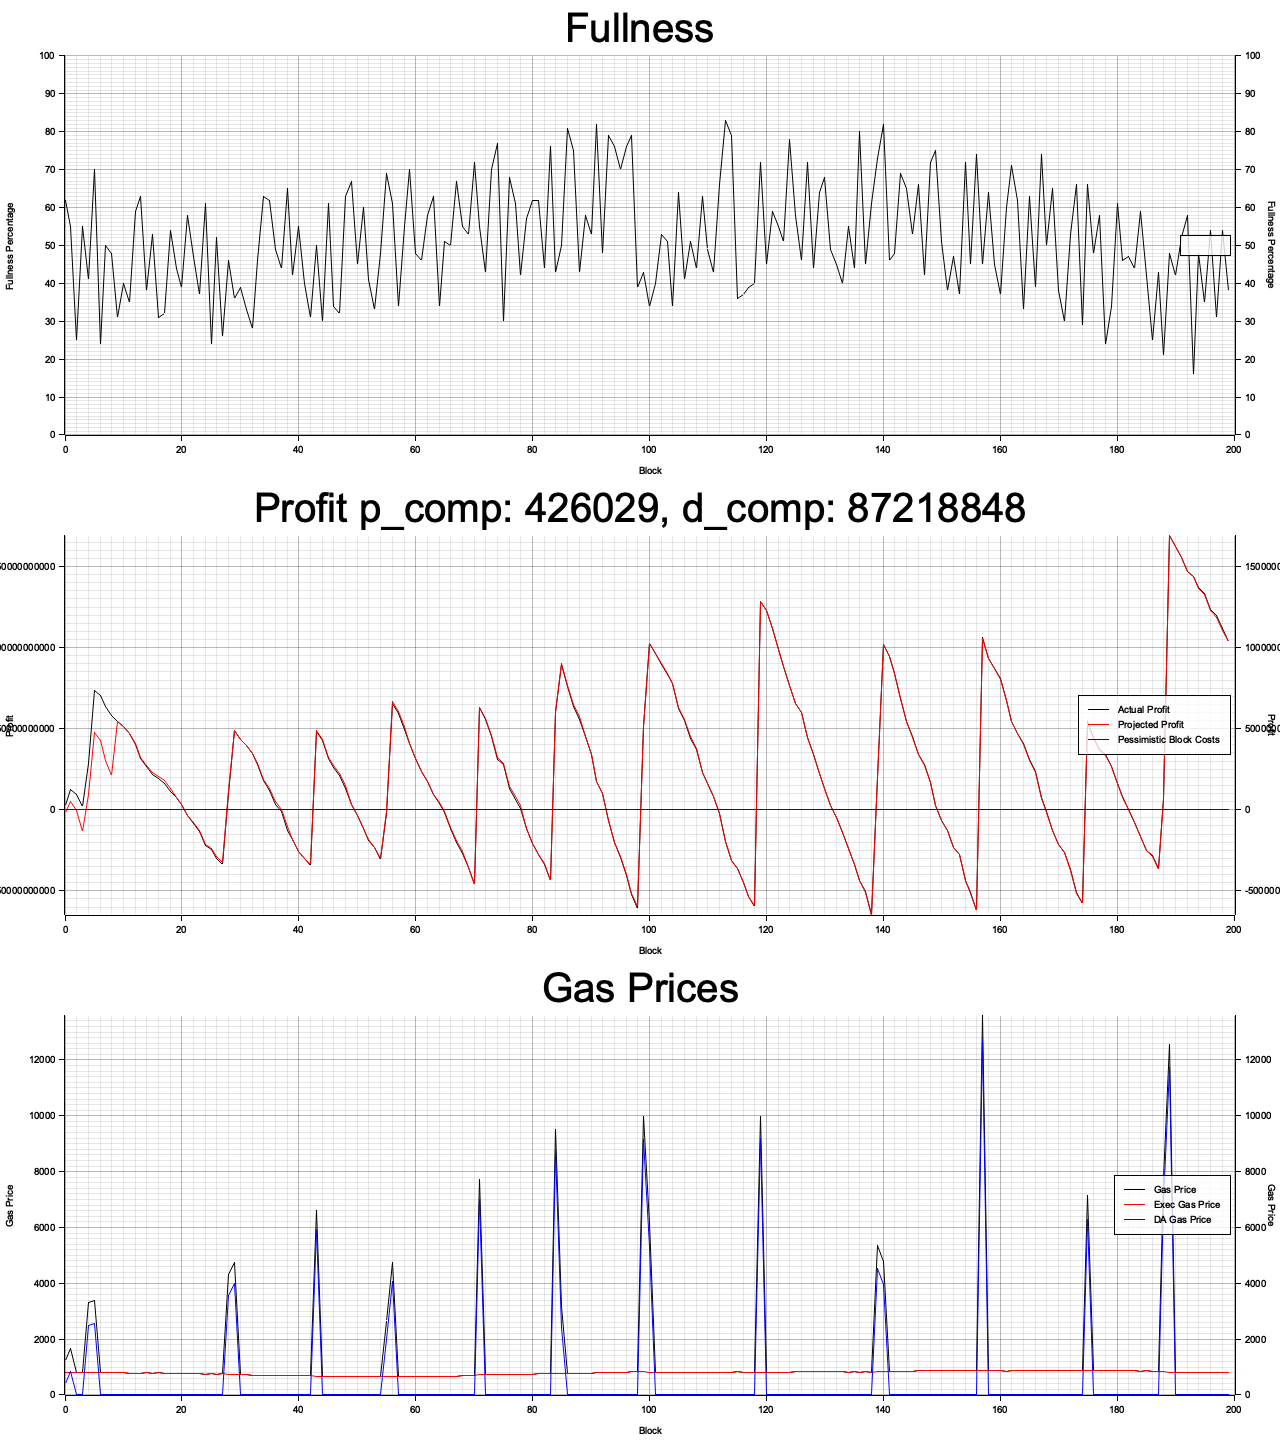
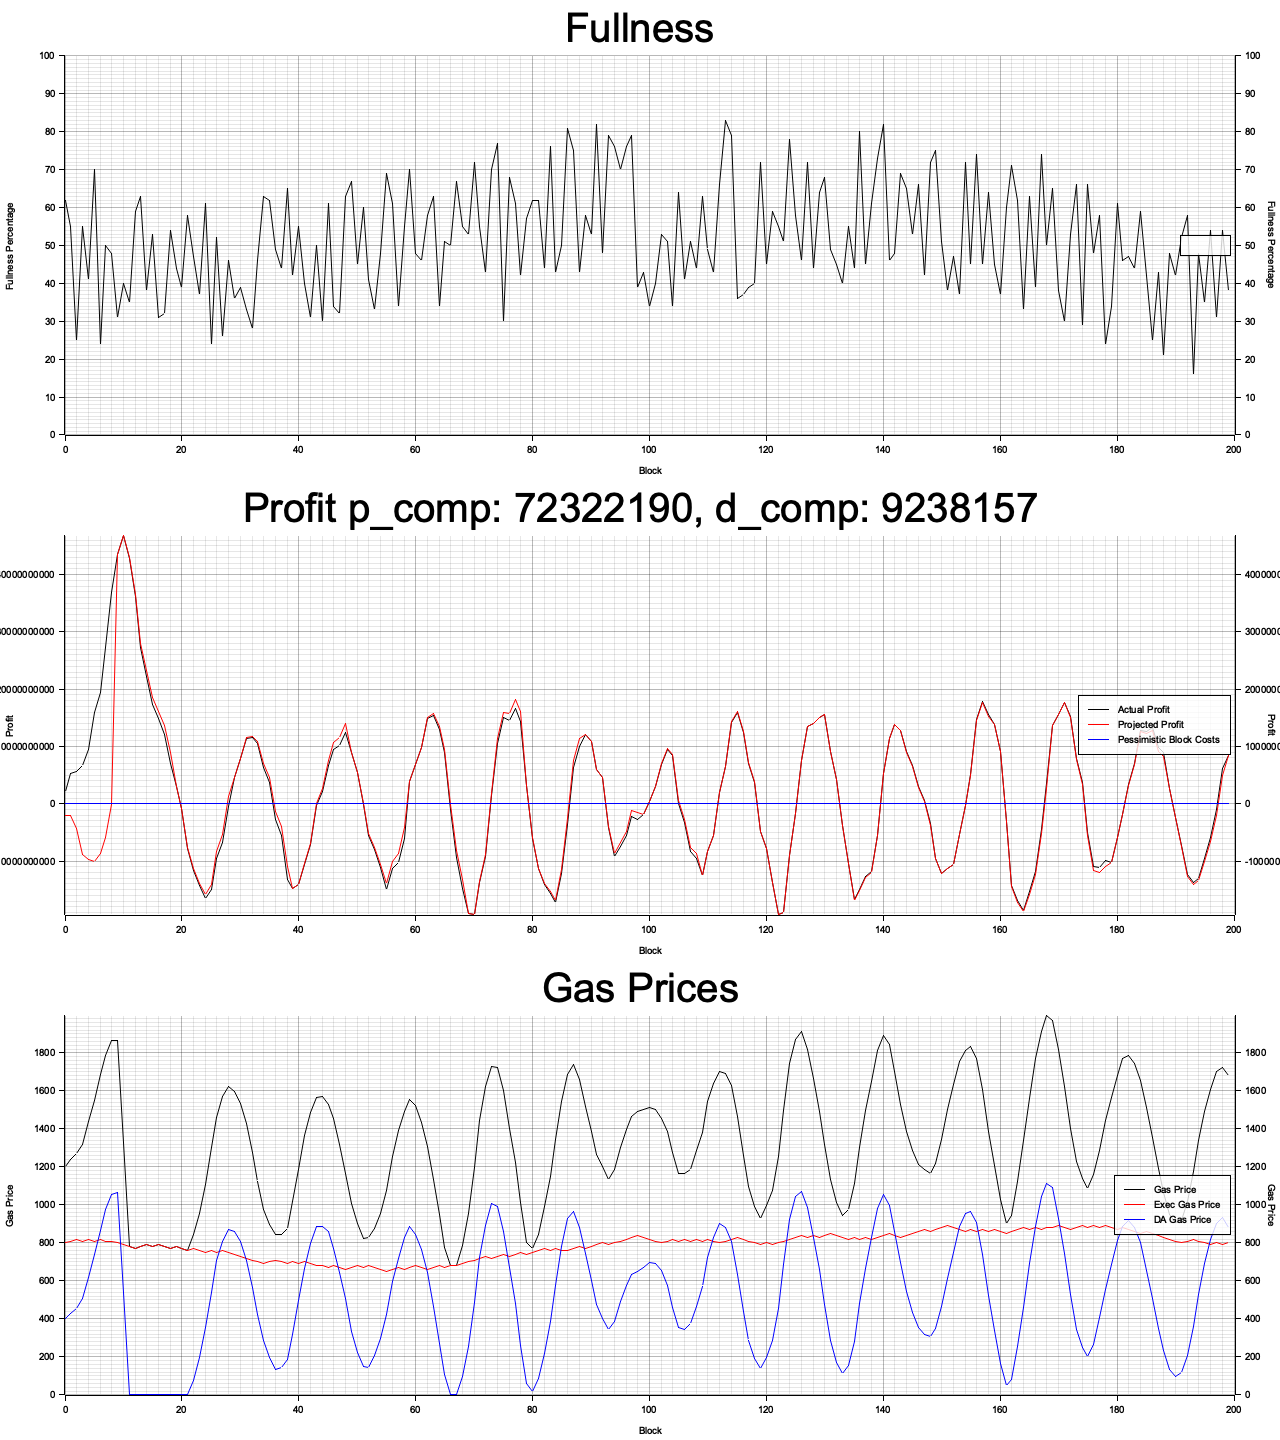
Replace d value :), start adding max change

Changed region(s): [[0.0312, 0.6875, 1.0, 0.9688], [0.0, 0.3438, 1.0, 0.6562]]

diff --git a/crates/gas-price-algorithm/src/tests/algorithm_v1_tests.rs b/crates/gas-price-algorithm/src/tests/algorithm_v1_tests.rs
@@ -84,7 +84,6 @@ fn calculate__positive_profit_decrease_gas_price() {
     let da_p_component = 100;
     let da_d_component = 10;
     let block_bytes = 500;
-    let latest_profit = 100;
     let profit_avg = 100;
     let avg_window = 10;
     let arb_value = 1000;
@@ -119,3 +118,48 @@ fn calculate__positive_profit_decrease_gas_price() {
         starting_exec_gas_price as i64 + last_da_gas_price as i64 - da_p_comp - da_d_comp;
     assert_eq!(expected as u64, actual);
 }
+
+// #[test]
+// fn calculate__price_does_not_change_more_than_max_percent() {
+//     // given
+//     let starting_exec_gas_price = 100;
+//     let last_da_gas_price = 100;
+//     let starting_cost = 500;
+//     let latest_gas_per_byte = 10;
+//     let da_p_component = 100;
+//     let da_d_component = 10;
+//     let block_bytes = 500;
+//     let profit_avg = 100;
+//     let avg_window = 10;
+//     let arb_value = 1000;
+//     let smaller_starting_reward =
+//         starting_cost + block_bytes * latest_gas_per_byte - arb_value;
+//     let mut updater = UpdaterBuilder::new()
+//         .with_starting_exec_gas_price(starting_exec_gas_price)
+//         .with_starting_da_gas_price(last_da_gas_price)
+//         .with_da_p_component(da_p_component)
+//         .with_da_d_component(da_d_component)
+//         .with_total_rewards(smaller_starting_reward)
+//         .with_known_total_cost(starting_cost)
+//         .with_projected_total_cost(starting_cost)
+//         .with_da_cost_per_byte(latest_gas_per_byte)
+//         .with_profit_avg(profit_avg, avg_window)
+//         .build();
+//
+//     // when
+//     let algo = updater.algorithm();
+//     let actual = algo.calculate(block_bytes);
+//
+//     // then
+//     let profit = smaller_starting_reward as i64
+//         - (starting_cost + block_bytes * latest_gas_per_byte) as i64;
+//     let new_profit_avg =
+//         (profit_avg * (avg_window as i64 - 1) + profit) / avg_window as i64;
+//
+//     let da_p_comp = new_profit_avg / da_p_component;
+//     let slope = new_profit_avg - profit_avg;
+//     let da_d_comp = slope / da_d_component;
+//     let expected =
+//         starting_exec_gas_price as i64 + last_da_gas_price as i64 - da_p_comp - da_d_comp;
+//     assert_eq!(expected as u64, actual);
+// }

diff --git a/crates/gas-price-algorithm/src/lib.rs b/crates/gas-price-algorithm/src/lib.rs
@@ -23,6 +23,7 @@ pub struct AlgorithmV1 {
     block_height: u32,
     new_exec_price: u64,
     last_da_price: u64,
+    max_change_percent: u8,
 
     // L2
     l2_block_fullness_threshold_percent: u64,
@@ -58,7 +59,6 @@ impl AlgorithmV1 {
         let slope = projected_profit_avg - self.avg_profit;
         let checked_d = slope.checked_div(self.da_d_component);
         let d = -checked_d.unwrap_or(0);
-        let d = 0;
 
         new_da_gas_price = new_da_gas_price + p + d;
         let min = 0;
@@ -72,6 +72,7 @@ pub struct AlgorithmUpdaterV1 {
     pub new_exec_price: u64,
     pub last_da_price: u64,
     pub exec_gas_price_increase_amount: u64,
+    pub max_change_percent: u8,
 
     // L2
     pub l2_block_height: u32,
@@ -210,6 +211,7 @@ impl AlgorithmUpdaterV1 {
             block_height: self.l2_block_height.saturating_add(1),
             new_exec_price: self.new_exec_price,
             last_da_price: self.last_da_price,
+            max_change_percent: self.max_change_percent,
 
             l2_block_fullness_threshold_percent: self.l2_block_fullness_threshold_percent,
             exec_gas_price_increase_amount: self.exec_gas_price_increase_amount,

diff --git a/crates/gas-price-algorithm/src/tests.rs b/crates/gas-price-algorithm/src/tests.rs
@@ -5,6 +5,8 @@ struct UpdaterBuilder {
     starting_exec_gas_price: u64,
     starting_da_gas_price: u64,
     exec_gas_price_increase_amount: u64,
+    max_change_percent: u8,
+
     da_p_component: i64,
     da_d_component: i64,
 
@@ -28,6 +30,8 @@ impl UpdaterBuilder {
             starting_exec_gas_price: 0,
             starting_da_gas_price: 0,
             exec_gas_price_increase_amount: 0,
+            max_change_percent: u8::MAX,
+
             da_p_component: 0,
             da_d_component: 0,
 
@@ -133,6 +137,8 @@ impl UpdaterBuilder {
             new_exec_price: self.starting_exec_gas_price,
             last_da_price: self.starting_da_gas_price,
             exec_gas_price_increase_amount: self.exec_gas_price_increase_amount,
+            max_change_percent: self.max_change_percent,
+
             da_p_component: self.da_p_component,
             da_d_component: self.da_d_component,
 

diff --git a/crates/gas-price-algorithm/src/main.rs b/crates/gas-price-algorithm/src/main.rs
@@ -242,6 +242,7 @@ fn run_simulation(da_p_component: i64, da_d_component: i64) -> SimulationResults
         da_d_component,
         profit_avg: 0,
         avg_window: 10,
+        max_change_percent: u8::MAX,
     };
 
     let mut gas_prices = vec![];
